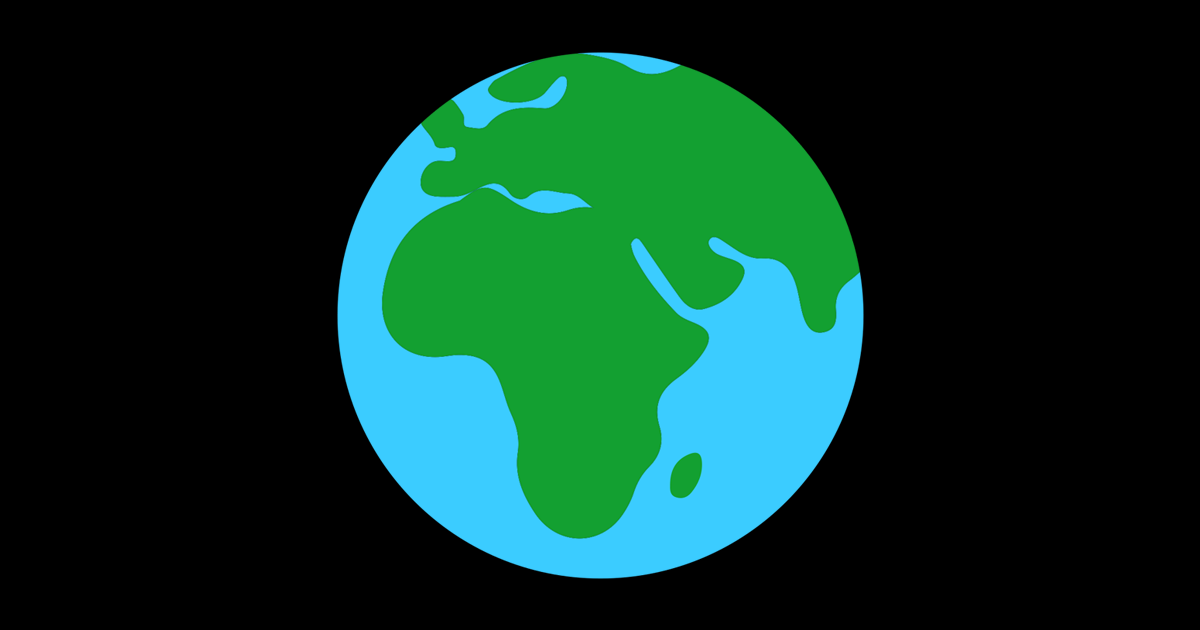
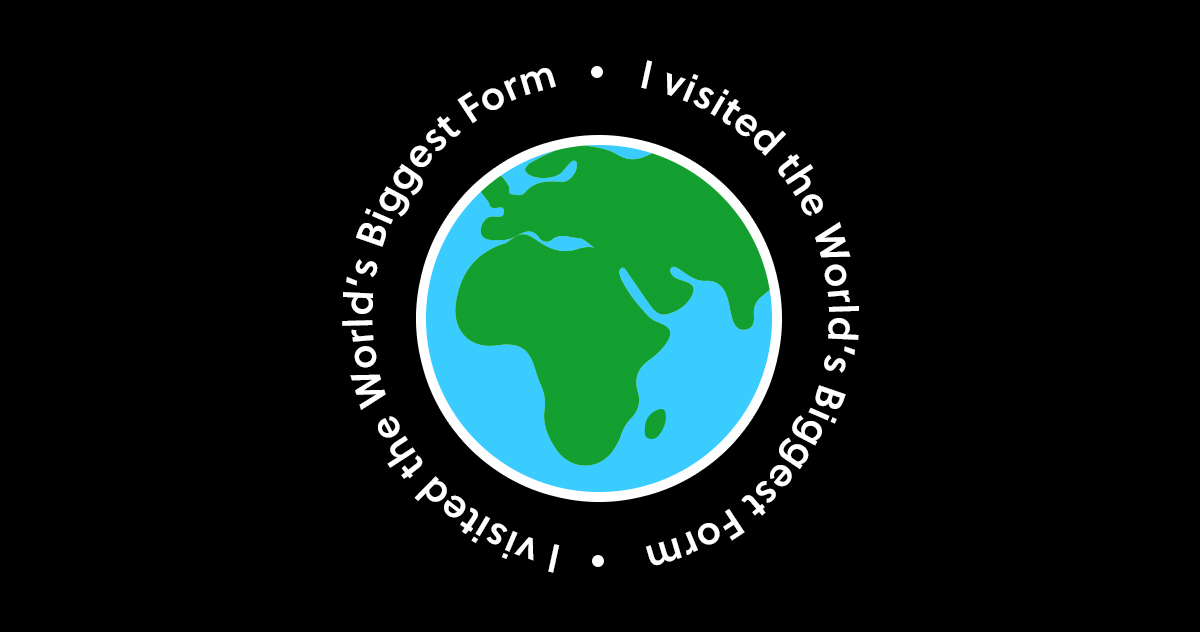
Ship day commit!

Changed region(s): [[0.2775, 0.0603, 0.74, 0.9349]]

diff --git a/src/components/GiftShop.js b/src/components/GiftShop.js
@@ -1,9 +1,15 @@
 import React, { Component } from 'react';
 import glamorous from 'glamorous';
 
-const { css } = glamor
+import { keyframes } from 'glamor';
 
-const rotate = css.keyframes({
+
+const rotate = keyframes({
+  '0%': { transform: `rotate(0deg)` },
+  '100%': { transform: `rotate(-360deg)` }
+})
+
+const rotateRev = keyframes({
   '0%': { transform: `rotate(0deg)` },
   '100%': { transform: `rotate(360deg)` }
 })
@@ -11,8 +17,8 @@ const rotate = css.keyframes({
 const GiftShop = glamorous.div({
   
   position: 'fixed',
-  top: 40,
-  right: 0,
+  top: 30,
+  right: 30,
   width: 200,
   height: 200,
   color: '#fff',
@@ -20,7 +26,13 @@ const GiftShop = glamorous.div({
   fontSize: 22,
   textTransform: 'uppercase',
   letterSpacing: '0.3em',
-  animation: `${rotate} 30s infinite`,
+
+  ' .text-circle': {
+    position: 'absolute',
+    width: '100%',
+    height: '100%',
+    animation: `${rotate} 45s linear infinite`,
+  },
 
   ' #circle': {
     textAlign: 'center',
@@ -33,7 +45,23 @@ const GiftShop = glamorous.div({
 
   ' text': {
     fill: '#fff',
-  }
+  },
+
+  ' .globe': {
+    position: 'absolute',
+    width: '120px',
+    height: '120px',
+    top: '35px',
+    right: '37px',
+    animation: `${rotateRev} 30s linear infinite`,
+    border: '4px solid #fff',
+    borderRadius: '50%',
+  },
+
+
+  '@media(max-width: 800px)': {
+    display: 'none',
+  },
 })
 
 class GiftShopWrapper extends Component {
@@ -42,16 +70,23 @@ class GiftShopWrapper extends Component {
       <GiftShop>
         
        
-        <a href="" title="Visit the gist Shop" target="_blank">
-        <svg preserveAspectRatio="meet" viewBox="0 0 250 250">
-          <title>Vit rhe Gift Shop</title>
+        <a href="https://shop.spreadshirt.com.au/worldsbiggestform/" title="Visit the Gift Shop" target="_blank">
+        
+        <svg className="text-circle" viewBox="0 0 200 200">
+          <title>Vist the Gift Shop</title>
           <path id="circle" d="M0,100a100,100 0 1,0 200,0a100,100 0 1,0 -200,0" fill="none"></path>
-          <text font-size="30">
+          <text textLength="600">
             <textPath xlinkHref="#circle">
             Gift Shop • Gift Shop • Gift Shop • 
             </textPath>
           </text>
         </svg>
+
+        <svg className="globe" viewBox="37 244.3 110 110">
+          <path d="M61.4 254.6c.7.8 1.3 1.7 1.8 2.7.5.8-.5 2.5 1.1 2.7 1.3.1 3 .7 4-.5 3.2-3.9 7.4-3.8 11.8-3.5 2.6.2 5.1-3.3 4.8-5.9-.2-1.1-1.2-1-1.8-.5-1 .9-1.9 2-2.8 3.1-2.2 2.6-9.1 2.8-11.4.4-.5-.5-.7-1-.2-1.6.4-.5.7-1.1 1.2-1.4 2.8-1.5 5.6-3 8.5-4.1-6.5 1.6-12.5 4.4-17.8 8.1.4.1.6.3.8.5zm36.3-7.3c3.6 2.2 6.7 1.9 10.1.2.4-.2.7-.4 1-.6-5.3-1.7-11-2.6-16.8-2.6-1.6 0-3.2.1-4.8.2.7 0 1.5.1 2.2.2 2.8.5 5.9 1.1 8.3 2.6zm49.3 52c0 30.4-24.6 55-55 55s-55-24.6-55-55c0-15.9 6.7-30.2 17.5-40.2 0 .1.1.2.1.4.9 1.4 2.2 2.4 2.7 4.1.3 1 1.9.8 3 .6 1.1-.2 1.4.2 1.4 1.2 0 .8-.2 1.6-1.1 1.7-.9.1-1.9-.1-2.8 0-1.8.2-3.4 2.2-3.4 4.3-.1 1.8 1 2.9 3.3 3.1 1.2.1 2.5 0 3.7 0 1.6-.1 3-.6 4.3-1.4 2.5-1.4 5-2.6 7.3.7.8 1.2 2.8 1.6 3.8.7 2.7-2.4 5.6-.8 8.4-.7 2.2.1 3.5 2 5.3 3-1.8-.3-3.6-.1-5.4.5-4.3 1.4-8.3.3-11.9-2.2-5-3.4-5.9-3.5-10.6.2-9.5 2.9-14.6 9.2-16.1 19.1-1.2 8 3.6 13.9 11.6 13.6 1.4-.1 2.8-.4 4.2-.4 4.7-.1 7.2 1.7 8.8 6.1.7 2 1.2 4.2 2.1 6.2 1.2 2.6 1.9 5.3 1.4 8.2-.7 4.8 1 8.8 3.6 12.7 4.6 6.9 13.7 7 18.3.3 1-1.4 1.8-3 2.3-4.6.7-2.1 1.7-3.9 3.3-5.5 2.3-2.3 3-5.2 2.1-8.2-1.3-4.4 0-7.5 3.6-10.1 2.2-1.5 4.1-3.4 5.6-5.6 1.9-2.8 1.4-4.6-1.6-5.9-1.4-.6-3-1.1-4-2.2-3.4-3.5-6.4-7.2-8.6-11.6-.4-.8-.7-1.7-.8-2.7-.1-.3.3-.9.6-1.1.4-.4 1-.2 1.2.2.6.7 1.1 1.5 1.6 2.3 2.2 3.2 4.4 6.5 6.7 9.6 1.2 1.7 2.9 3.1 5.2 2.5 3.4-.9 6.3-2.8 7.9-6.1 1-2 .4-3.2-1.6-4-1.1-.5-2.4-.7-3.5-1.3-1.2-.6-2.3-2-1.7-3 .8-1.4 2.2-.3 3.2.4 2.5 1.6 4.8 3.6 8 3.4 3.8-.2 5.8 2 6.8 5.2.6 1.9.9 4 1.4 5.9.8 3.4 2.2 4.8 4.5 4.3 2.7-.5 2.7-2.7 2.6-4.8-.2-2.6.8-4.5 2.8-6 .8-.6 1.5-1.2 2.2-1.8.4 2.7.7 5.8.7 8.9z" fill="#3bccff"/>
+          <path d="M113.2 330.4c0 2.2-.8 4.2-2.2 5.9-.9 1.1-2 1.5-3.3 1-1.3-.4-1.2-1.7-1.2-2.7 0-2.6.9-4.8 3.4-6 2.3-1.2 3.3-.6 3.3 1.8zm-58.6-71c-.1-.1-.1-.2-.1-.4 1.9-1.8 4-3.5 6.2-5 .3.1.5.3.7.5.7.8 1.3 1.7 1.8 2.7.5.8-.5 2.5 1.1 2.7 1.3.1 3 .7 4-.5 3.2-3.9 7.4-3.8 11.8-3.5 2.6.2 5.1-3.3 4.8-5.9-.2-1.1-1.2-1-1.8-.5-1 .9-1.9 2-2.8 3.1-2.2 2.6-9.1 2.8-11.4.4-.5-.5-.7-1-.2-1.6.4-.5.7-1.1 1.2-1.4 2.8-1.5 5.6-3 8.5-4.1 2.8-.7 5.7-1.2 8.7-1.5.7 0 1.5.1 2.2.2 2.8.5 5.9 1.1 8.3 2.5 3.6 2.2 6.7 1.9 10.1.2.4-.2.7-.4 1-.6 19.3 6.2 34 22.8 37.4 43.3-.7.6-1.4 1.3-2.2 1.8-2.1 1.5-3 3.4-2.8 6 .2 2 .1 4.2-2.6 4.8-2.3.4-3.7-.9-4.5-4.3-.5-2-.7-4-1.4-5.9-1.1-3.2-3-5.4-6.8-5.2-3.2.2-5.5-1.8-8-3.4-1-.7-2.4-1.8-3.2-.4-.5.9.6 2.4 1.7 3 1.1.6 2.3.8 3.5 1.3 2.1.9 2.6 2.1 1.6 4-1.6 3.3-4.5 5.2-7.9 6.1-2.3.6-3.9-.8-5.2-2.5-2.3-3.1-4.5-6.4-6.7-9.6-.5-.8-1-1.6-1.6-2.3-.3-.3-.8-.6-1.2-.2-.3.3-.7.8-.6 1.1.2.9.4 1.8.8 2.7 2.2 4.3 5.3 8.1 8.6 11.6 1.1 1.1 2.6 1.6 4 2.2 3.1 1.3 3.5 3 1.6 5.9-1.5 2.2-3.5 4-5.6 5.6-3.6 2.6-4.9 5.7-3.6 10.1.9 3 .2 5.9-2.1 8.2-1.6 1.6-2.6 3.4-3.3 5.5-.5 1.6-1.4 3.2-2.3 4.6-4.6 6.8-13.7 6.6-18.3-.3-2.6-3.9-4.3-7.9-3.6-12.7.4-2.9-.2-5.5-1.4-8.2-.9-2-1.4-4.1-2.1-6.2-1.6-4.4-4.1-6.2-8.8-6.1-1.4 0-2.8.4-4.2.4-8.1.4-12.8-5.6-11.6-13.6 1.5-9.9 6.6-16.2 16.1-19.1 4.8-3.6 5.6-3.6 10.6-.2 3.6 2.5 7.6 3.6 11.9 2.2 1.8-.6 3.6-.8 5.4-.5-1.8-1-3.1-2.9-5.3-3-2.8-.1-5.6-1.7-8.4.7-1.1.9-3 .5-3.8-.7-2.3-3.3-4.7-2-7.3-.7-1.4.7-2.8 1.3-4.3 1.4-1.2 0-2.5.1-3.7 0-2.3-.2-3.4-1.3-3.3-3.1.1-2.1 1.6-4.2 3.4-4.3.9-.1 1.9.1 2.8 0 .9-.1 1.1-.9 1.1-1.7 0-.9-.4-1.4-1.4-1.2-1.1.2-2.7.4-3-.6-.3-1.4-1.6-2.4-2.5-3.8z" fill="#13a031"/>
+        </svg>
+
         </a>
 
       </GiftShop>

diff --git a/src/components/Info.js b/src/components/Info.js
@@ -144,7 +144,7 @@ class InfoWrapper extends Component {
         <div className="infowrapper-inner">
           <p>I come from a land curiously obsessed with oversized objects. Hey, not that kind... get your mind out of the gutter, geez. I'm talking about novelty structures of everyday objects, just really, really, really, really, really, big.</p> 
 
-          <p>On your travels you might see big <a href="http://www.thebigcamera.com.au/" title="More about The Big Camera" target="_blank" className="camera">Cameras</a>, <a href="https://www.pinterest.com.au/pin/156570524516955715/" title="More about The Big Poo" target="_blank" className="poo">Poos</a>, <a href="https://www.tripadvisor.com.au/Attraction_Review-g528913-d8115622-Reviews-Big_Prawn-Ballina_New_South_Wales.html" title="More about The Big Prawn" target="_blank" className="prawn">Prawns</a>,  <a href="https://en.wikipedia.org/wiki/Big_Rocking_Horse" title="More about The Big Rocking Horse" target="_blank" className="horses">Rocking Horses</a>, <a href="https://harveyvisitorcentre.com.au/big-orange---harvey-wa.html" title="More about The Big Orange" target="_blank" className="orange">Oranges</a> & <a href="https://en.wikipedia.org/wiki/Golden_Gumboot" title="More about The Big Gumboot" target="_blank" className="boot">Gumboots</a> amongts many others. I'm especially fond of our rather big <a href="https://en.wikipedia.org/wiki/Uluru" title="More about Uluru" target="_blank" className="rock">Rock</a>. </p> 
+          <p>On your travels you might see big <a href="http://www.thebigcamera.com.au/" title="More about The Big Camera" target="_blank" className="camera">Cameras</a>, <a href="https://www.pinterest.com.au/pin/156570524516955715/" title="More about The Big Poo" target="_blank" className="poo">Poos</a>, <a href="https://www.tripadvisor.com.au/Attraction_Review-g528913-d8115622-Reviews-Big_Prawn-Ballina_New_South_Wales.html" title="More about The Big Prawn" target="_blank" className="prawn">Prawns</a>,  <a href="https://en.wikipedia.org/wiki/Big_Rocking_Horse" title="More about The Big Rocking Horse" target="_blank" className="horses">Rocking Horses</a>, <a href="https://harveyvisitorcentre.com.au/big-orange---harvey-wa.html" title="More about The Big Orange" target="_blank" className="orange">Oranges</a> & <a href="https://en.wikipedia.org/wiki/Golden_Gumboot" title="More about The Big Gumboot" target="_blank" className="boot">Gumboots</a> amongst many others. I'm especially fond of our rather big (and naturally occurring) <a href="https://en.wikipedia.org/wiki/Uluru" title="More about Uluru" target="_blank" className="rock">Rock</a>. </p> 
 
           <p>It's an honour to add this giant FORM to the collection. Always expanding to fit your viewport, this form is only limited in size by the screen you view it in.</p>
           <br />
@@ -152,7 +152,7 @@ class InfoWrapper extends Component {
 
         <p className="smalltext"><span className="fancy">*</span> Disclaimer: May not actually be the biggest form in the world however it's without a doubt the biggest in the southern hemisphere.</p>
         
-        <p className="smalltext"><span className="fancy">**</span> Explainer: This project was an excuse to dip my toes into the React ecosystem, learn a little along the way and get emojis out of my system. It's rough around the edges and guess what? I'm also using jQuery... Quick, run for the hills! I'm ok with all of this and I hope you are too.</p>
+        <p className="smalltext"><span className="fancy">**</span> Explainer: This project was an excuse to dip my toes into the React ecosystem, learn a little along the way and get emojis out of my system. It's rough around the edges and I'm even using jQuery... Quick, run for the hills! I'm ok with all of this and I hope you are too.</p>
 
         </div>
       </Info>

diff --git a/public/index.html b/public/index.html
@@ -3,7 +3,7 @@
   <head>
     <meta charset="utf-8">
     <meta name="viewport" content="width=device-width, initial-scale=1, shrink-to-fit=no">
-    <title>Welcome to The Worlds Biggest Form *</title>
+    <title>Welcome to The World's Biggest Form *</title>
     <!--
       manifest.json provides metadata used when your web app is added to the
       homescreen on Android. See https://developers.google.com/web/fundamentals/engage-and-retain/web-app-manifest/
@@ -16,21 +16,29 @@
 
     <meta name="description" content="Feel free to leave a message, take pictures and stop by the gift shop on your way out."/>
     <meta property="og:type" content="website" />
-    <meta property="og:title" content="Welcome to The Worlds Biggest Form *" />
+    <meta property="og:title" content="Welcome to The World's Biggest Form *" />
     <meta property="og:description" content="Feel free to leave a message, take pictures and stop by the gift shop on your way out." />
     <meta property="og:url" content="http://worldsbiggestform.com" />
-    <meta property="og:site_name" content="The Worlds Biggest Form *" />
+    <meta property="og:site_name" content="The World's Biggest Form *" />
     <meta property="og:image" content="%PUBLIC_URL%/img/og.jpg" />
     <meta name="twitter:card" content="summary" />
     <meta name="twitter:description" content="Feel free to leave a message, take pictures and stop by the gift shop on your way out." />
-    <meta name="twitter:title" content="Welcome to The Worlds Biggest Form *" />
+    <meta name="twitter:title" content="Welcome to The World's Biggest Form *" />
     <meta name="twitter:image" content="%PUBLIC_URL%/img/og.jpg" />
-
-    <meta name="robots" content="noindex, nofollow">
 
     <link rel="stylesheet" href="https://use.typekit.net/gpo7dpw.css">    
     <link href="https://fonts.googleapis.com/css?family=Libre+Baskerville&text=*" rel="stylesheet">
-    <script src="https://code.jquery.com/jquery-3.2.1.min.js"></script>
+
+    <!-- Global site tag (gtag.js) - Google Analytics -->
+    <script async src="https://www.googletagmanager.com/gtag/js?id=UA-10588553-19"></script>
+    <script>
+      window.dataLayer = window.dataLayer || [];
+      function gtag(){dataLayer.push(arguments);}
+      gtag('js', new Date());
+
+      gtag('config', 'UA-10588553-19');
+    </script>
+
     
     <!--
       Notice the use of %PUBLIC_URL% in the tags above.
@@ -49,4 +57,5 @@
     <div id="app"></div>
     </div>
   </body>
+  <script src="https://code.jquery.com/jquery-3.2.1.min.js"></script>
 </html>

diff --git a/src/components/WtfWrapper.js b/src/components/WtfWrapper.js
@@ -3,8 +3,8 @@ import glamorous from 'glamorous';
 
 const WTFWrapper = glamorous.div({
   position: 'fixed',
-  bottom: 40,
-  left: 40,
+  bottom: 30,
+  left: 30,
   zIndex: 10,
   transform: 'translateZ(0)',
 
@@ -12,14 +12,14 @@ const WTFWrapper = glamorous.div({
     textDecoration: 'none',
     position: 'relative',
     display: 'inline-block',
-    fontWeight: 700,
+    fontWeight: 600,
     textAlign: 'center',
   },
   
   ' span': {
       display: 'block',
       position: 'relative',
-      padding: '15px 25px',
+      padding: '10px 20px',
       background: '#fff',
       color: '#191919',
       border: '3px solid #191919',
@@ -56,12 +56,12 @@ const WTFWrapper = glamorous.div({
   '@media(max-width: 530px)': {
       bottom: 10,
       left: 10,
-      width: 'calc(65% - 10px)',
+      width: 'calc(60% - 10px)',
       fontSize: '13px',
       fontSize: '1.3rem',
 
       ' span': {
-          padding: '16px 5px',
+          padding: '12px 5px',
       },
 
       ' a': {

diff --git a/src/components/TwitterShare.js b/src/components/TwitterShare.js
@@ -3,7 +3,7 @@ import glamorous from 'glamorous';
 
 const TwitterShare = glamorous.div({
   display: 'inline-block',
-  margin: '0 0 0 20px',
+  margin: '0 0 0 15px',
 
   '@media(max-width: 530px)': {
     width: '50%',
@@ -20,7 +20,7 @@ class TwitterShareWrapper extends Component {
   render() {
     return (
       <TwitterShare>
-        <a className="twitter-share" href="https://twitter.com/intent/tweet/?text=I%20visited%20the%20Worlds%20Biggest%20Form%20and%20all%20I%20got%20was%20this%20lousy%20tweet.&amp;url=http%3A%2F%2Fworldsbiggestform.com&via=jesseyuen" target="_blank" aria-label="Share on Twitter">
+        <a className="twitter-share" href="https://twitter.com/intent/tweet/?text=I%20visited%20the%20World's%20Biggest%20Form%20and%20all%20I%20got%20was%20this%20lousy%20tweet.&amp;url=http%3A%2F%2Fworldsbiggestform.com&via=jesseyuen" target="_blank" aria-label="Share on Twitter">
             <span>Share</span>
         </a>
       </TwitterShare>

diff --git a/src/components/SubmitButton.js b/src/components/SubmitButton.js
@@ -3,10 +3,10 @@ import glamorous from 'glamorous';
 
 const SubmitButton = glamorous.button ({
     position: 'fixed',
-    bottom: 40,
-    right: 40,
+    bottom: 30,
+    right: 30,
     border: 0,
-    fontWeight: '700',
+    fontWeight: '600',
     background: 'none',
     border: 0,
     padding: 0,
@@ -19,7 +19,7 @@ const SubmitButton = glamorous.button ({
     ' span': {
         display: 'block',
         position: 'relative',
-        padding: '15px 25px',
+        padding: '10px 20px',
         background: '#fff',
         color: '#191919',
         border: '3px solid #191919',
@@ -63,9 +63,10 @@ const SubmitButton = glamorous.button ({
         width: 'calc(30% - 10px)',
         fontSize: '13px',
         fontSize: '1.3rem',
+        width: '120px',
 
         ' span': {
-            padding: '16px 5px',
+            padding: '12px 5px',
         },
         
 

diff --git a/src/components/MessageLabel.js b/src/components/MessageLabel.js
@@ -3,8 +3,8 @@ import glamorous from 'glamorous';
 
 const MessageLabel = glamorous.label({
     position: 'absolute',
-    top: 40,
-    left: 40,
+    top: 30,
+    left: 30,
     fontSize: '45px',
     fontSize: '4.5rem',
     lineHeight: '1.3',
@@ -12,6 +12,7 @@ const MessageLabel = glamorous.label({
     transition: 'transform 200ms, font-size 200ms, line-height 200ms',
     willChange: 'transform, font-size, line-height',
     transformOrigin: 'top left',
+    pointerEvents: 'none',
 
     ' span': {
         position: 'relative',
@@ -29,6 +30,11 @@ const MessageLabel = glamorous.label({
         top: 25,
         left: 25,
         paddingRight: '20px',
+    },
+    
+    '@media(max-width: 500px)': {
+        fontSize: '11px',
+        fontSize: '1.1em',
     },
 
 })

diff --git a/src/App.css b/src/App.css
@@ -30,28 +30,32 @@ font-style:normal;font-weight:400;
 
 html {
     font-size: 62.5%;
+    -webkit-text-size-adjust: 100%;
+	-ms-text-size-adjust: 100%;
+	text-rendering: geometricPrecision;
+	-webkit-font-smoothing: antialiased;
 }
 
 body {
-    height: 100vh;
-    width: 100vw;
+    height: 100%;
+    width: 100%;
     overflow: hidden;
     font-family: 'soleil', sans-serif;
-    font-weight: 300;
+    font-weight: 400;
     font-size: 16px;
     font-size: 1.6rem;
 }
 
 html, body {
-    height: 100vh;
-    width: 100vw;
+    height: 100%;
+    width: 100%;
     overflow: hidden;
 }
 
 #app {
     position: relative;
-    height: 100vh;
-    width: 100vw;
+    height: 100%;
+    width: 100%;
     overflow: hidden;
 }
 

diff --git a/src/App.js b/src/App.js
@@ -56,14 +56,16 @@ class App extends Component {
     e.preventDefault();
   
     $.ajax({
+      // url: process.env.NODE_ENV !== "production" ? '/getMail' : "mailer.php",
       url: "mailer.php",
       type: "POST",
       data: {
         "form_msg": this.state.contactMessage
       },
-      contentType: "application/json; charset=utf-8",
-      dataType: "HTML",
-      cache: false,
+      dataType: "html",
+      beforeSend: function(){
+        $('#formButton').html("<span>⏲&nbsp; Sending...</span>");
+      },
       success: function(data) {
         // Success..
         this.setState({

diff --git a/src/components/MessageInput.js b/src/components/MessageInput.js
@@ -21,7 +21,7 @@ const MessageInput = glamorous.textarea({
 
     ':focus': { 
         outline: 0,
-        padding: '180px 40px 40px',
+        padding: '180px 30px 30px',
         background: '#4e6379',
         // background: 'linear-gradient(to bottom, #f14b97 23%,#f14b97 23%,#f7d100 39%,#f7d100 39%,#f7d100 60%,#5cae3f 76%,#5cae3f 76%)',
     },

diff --git a/src/components/FormWrapper.js b/src/components/FormWrapper.js
@@ -6,8 +6,8 @@ const FormWrapper = glamorous.section({
     top: 0,
     left: 0,
     background: '#fff',
-    width: '100vw',
-    height: '100vh',
+    width: '100%',
+    height: '100%',
     overflow: 'hidden'
 })
 
